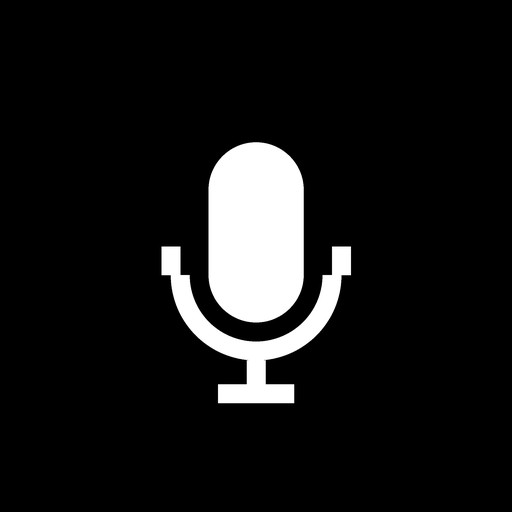
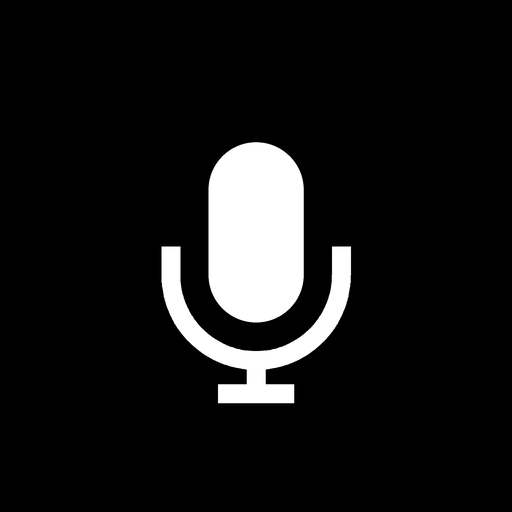
fix: align store microphone stroke with launcher geometry

Changed region(s): [[0.3125, 0.5312, 0.6875, 0.7188]]

diff --git a/tools/render_play_artwork.py b/tools/render_play_artwork.py
@@ -1,5 +1,6 @@
 """Render store artwork from Voxdroid's existing microphone mark (requires Pillow)."""
 from pathlib import Path
+import math
 from PIL import Image, ImageDraw, ImageFont
 
 ROOT = Path(__file__).resolve().parents[1]
@@ -13,7 +14,9 @@ def mic(draw, x, y, size):
                                        x+c*size/108, y+d*size/108))
     width = max(1, round(4*size/108))
     draw.rounded_rectangle(box(44, 30, 64, 68), radius=10*size/108, fill='white')
-    draw.arc(box(36, 40, 72, 76), 0, 180, fill='white', width=width)
+    arc = [(round(x+(54-18*math.cos(i*math.pi/180))*size/108),
+            round(y+(58+18*math.sin(i*math.pi/180))*size/108)) for i in range(181)]
+    draw.line(arc, fill='white', width=width, joint='curve')
     for coords in ((36, 52, 36, 58), (72, 52, 72, 58),
                    (54, 76, 54, 83), (46, 83, 62, 83)):
         draw.line(box(*coords), fill='white', width=width)
